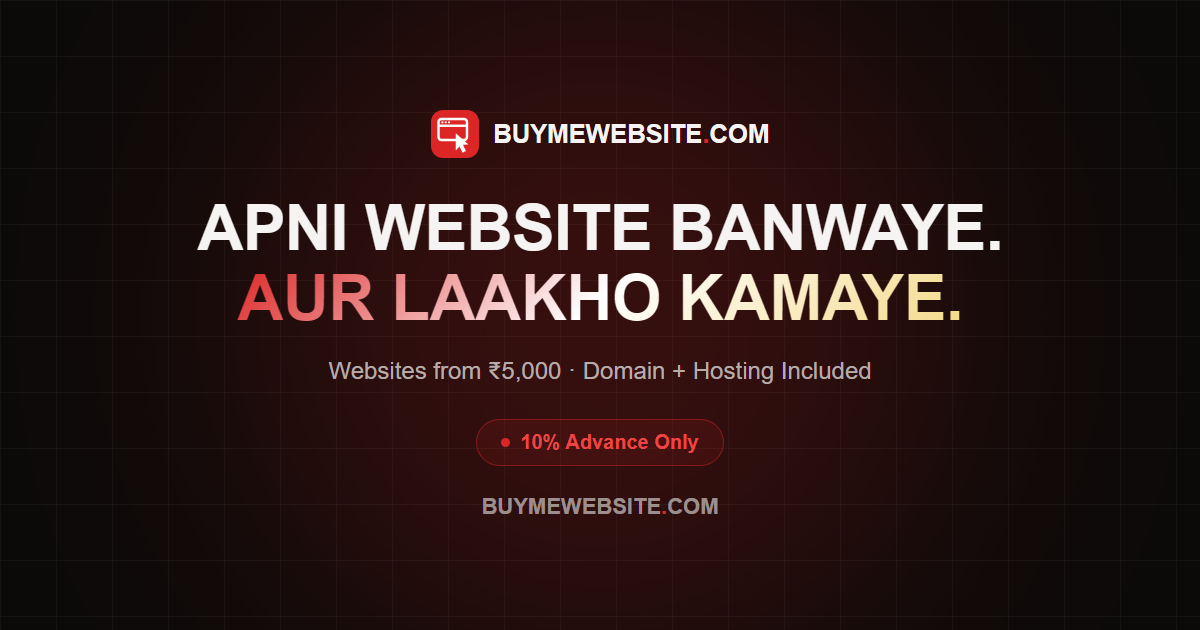
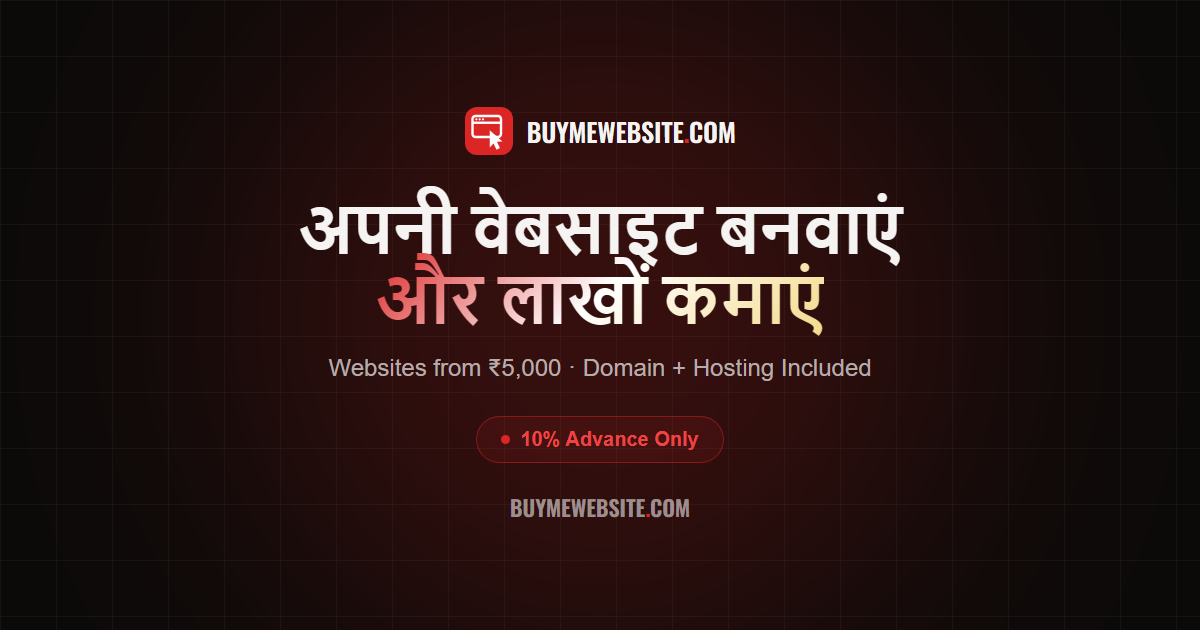
Add Abhishek to team and switch hero headline to Hindi
- Add Abhishek (Sales Executive & Co-Founder, Senior Manager at
  IndiaMart) to the team section, placed right after Himanshu
- Change hero headline to Devanagari Hindi: "Apni Website Banwaye /
  Aur Laakho Kamaye", with Teko as a Devanagari-friendly fallback
  font so it keeps the same bold condensed look as the rest of the
  site
- Regenerate the OG cover image to match

diff --git a/index.html b/index.html
@@ -36,7 +36,7 @@
 <script src="https://cdn.tailwindcss.com"></script>
 <link rel="preconnect" href="https://fonts.googleapis.com">
 <link rel="preconnect" href="https://fonts.gstatic.com" crossorigin>
-<link href="https://fonts.googleapis.com/css2?family=Oswald:wght@400;500;600;700&family=Inter:wght@300;400;500;600;700;800&display=swap" rel="stylesheet">
+<link href="https://fonts.googleapis.com/css2?family=Oswald:wght@400;500;600;700&family=Teko:wght@500;600;700&family=Inter:wght@300;400;500;600;700;800&display=swap" rel="stylesheet">
 <link rel="stylesheet" href="https://cdnjs.cloudflare.com/ajax/libs/font-awesome/6.5.1/css/all.min.css">
 
 <!-- Structured Data -->
@@ -103,7 +103,7 @@
     line-height:1.5;
   }
   h1,h2,h3,h4,h5,h6{line-height:1.3; padding-bottom:.05em;}
-  .font-display{font-family:'Oswald',sans-serif; letter-spacing:-.01em; line-height:1.15; text-transform:uppercase;}
+  .font-display{font-family:'Oswald','Teko',sans-serif; letter-spacing:-.01em; line-height:1.15; text-transform:uppercase;}
 
   /* Grid bg */
   .grid-bg{
@@ -307,8 +307,8 @@
   <div class="relative z-10 max-w-7xl mx-auto px-6 pt-36 pb-0 md:pb-20 grid lg:grid-cols-[1.15fr_0.85fr] gap-8 lg:gap-12 items-center">
     <div class="text-center lg:text-left">
       <h1 class="font-display font-extrabold text-5xl md:text-7xl lg:text-7xl xl:text-8xl leading-[0.95] mb-6 reveal">
-        Apni Website Banwaye.<br>
-        <span class="gradient-text">Aur Laakho Kamaye.</span>
+        अपनी वेबसाइट बनवाएं<br>
+        <span class="gradient-text">और लाखों कमाएं</span>
       </h1>
 
       <h2 class="font-display text-2xl md:text-4xl font-bold text-white/90 max-w-2xl mx-auto lg:mx-0 mb-6 reveal">
@@ -968,6 +968,25 @@
             <p class="text-white/70 text-sm mb-4">Designs interfaces people love to use. Owns visual identity, motion design, and user experience for every project.</p>
             <div class="flex gap-3">
               <a href="https://www.linkedin.com/in/himanshu-tiwari-465a82201/" target="_blank" rel="noopener" class="w-10 h-10 rounded-full border border-white/20 flex items-center justify-center hover:bg-[var(--accent)] hover:text-black hover:border-[var(--accent)] transition"><i class="fab fa-linkedin-in"></i></a>
+            </div>
+          </div>
+        </div>
+      </div>
+
+      <!-- Abhishek -->
+      <div class="team-card reveal">
+        <div class="team-card-inner">
+          <div class="team-face glass border border-[var(--border)] p-8 flex flex-col items-center justify-center text-center">
+            <img src="images/Abhishek.jpeg" alt="Abhishek" class="w-24 h-24 rounded-full object-cover border border-[var(--accent)]/40 mb-4">
+            <h3 class="text-xl font-bold">Abhishek</h3>
+            <p class="text-[var(--accent)] text-sm mt-1">Sales Executive & Co-Founder</p>
+            <p class="text-white/50 text-xs mt-3">Senior Manager, IndiaMart</p>
+          </div>
+          <div class="team-face team-back glass border border-[var(--accent)] p-8 flex flex-col items-center justify-center text-center">
+            <h3 class="text-xl font-bold mb-3">Abhishek</h3>
+            <p class="text-white/70 text-sm mb-4">Leads sales and client relationships. Brings years of enterprise sales experience from IndiaMart to help every client find the right package for their business.</p>
+            <div class="flex gap-3">
+              <a href="#" class="w-10 h-10 rounded-full border border-white/20 flex items-center justify-center hover:bg-[var(--accent)] hover:text-black hover:border-[var(--accent)] transition"><i class="fab fa-linkedin-in"></i></a>
             </div>
           </div>
         </div>

diff --git a/og-cover-source.html b/og-cover-source.html
@@ -4,7 +4,7 @@
 <meta charset="UTF-8">
 <link rel="preconnect" href="https://fonts.googleapis.com">
 <link rel="preconnect" href="https://fonts.gstatic.com" crossorigin>
-<link href="https://fonts.googleapis.com/css2?family=Oswald:wght@600;700&family=Inter:wght@400;500;600&display=swap" rel="stylesheet">
+<link href="https://fonts.googleapis.com/css2?family=Oswald:wght@600;700&family=Teko:wght@600;700&family=Inter:wght@400;500;600&display=swap" rel="stylesheet">
 <style>
   *{margin:0;padding:0;box-sizing:border-box}
   html,body{width:1200px;height:630px;overflow:hidden;background:#0c0a09;}
@@ -26,10 +26,10 @@
 
   .brand{display:flex; align-items:center; gap:14px; margin-bottom:36px;}
   .logo{width:48px;height:48px;}
-  .brand-name{font-family:'Oswald',sans-serif;font-weight:600;font-size:26px;letter-spacing:-.01em;text-transform:uppercase;}
+  .brand-name{font-family:'Oswald','Teko',sans-serif;font-weight:600;font-size:26px;letter-spacing:-.01em;text-transform:uppercase;}
   .brand-name .dot{color:#dc2626;}
 
-  .headline{font-family:'Oswald',sans-serif;font-weight:700;letter-spacing:-.01em;font-size:64px;line-height:1.08;text-transform:uppercase;}
+  .headline{font-family:'Oswald','Teko',sans-serif;font-weight:700;letter-spacing:-.01em;font-size:64px;line-height:1.08;text-transform:uppercase;}
   .headline .accent{
     background:linear-gradient(135deg,#dc2626 0%, #ffffff 50%, #f3d987 100%);
     -webkit-background-clip:text; background-clip:text; -webkit-text-fill-color:transparent; color:transparent;
@@ -53,7 +53,7 @@
       <div class="brand-name">BuyMeWebsite<span class="dot">.</span>com</div>
     </div>
 
-    <div class="headline">Apni Website Banwaye.<br><span class="accent">Aur Laakho Kamaye.</span></div>
+    <div class="headline">अपनी वेबसाइट बनवाएं<br><span class="accent">और लाखों कमाएं</span></div>
     <div class="sub">Websites from ₹5,000 · Domain + Hosting Included</div>
 
     <div class="pill"><span class="dot-pulse"></span> 10% Advance Only</div>
